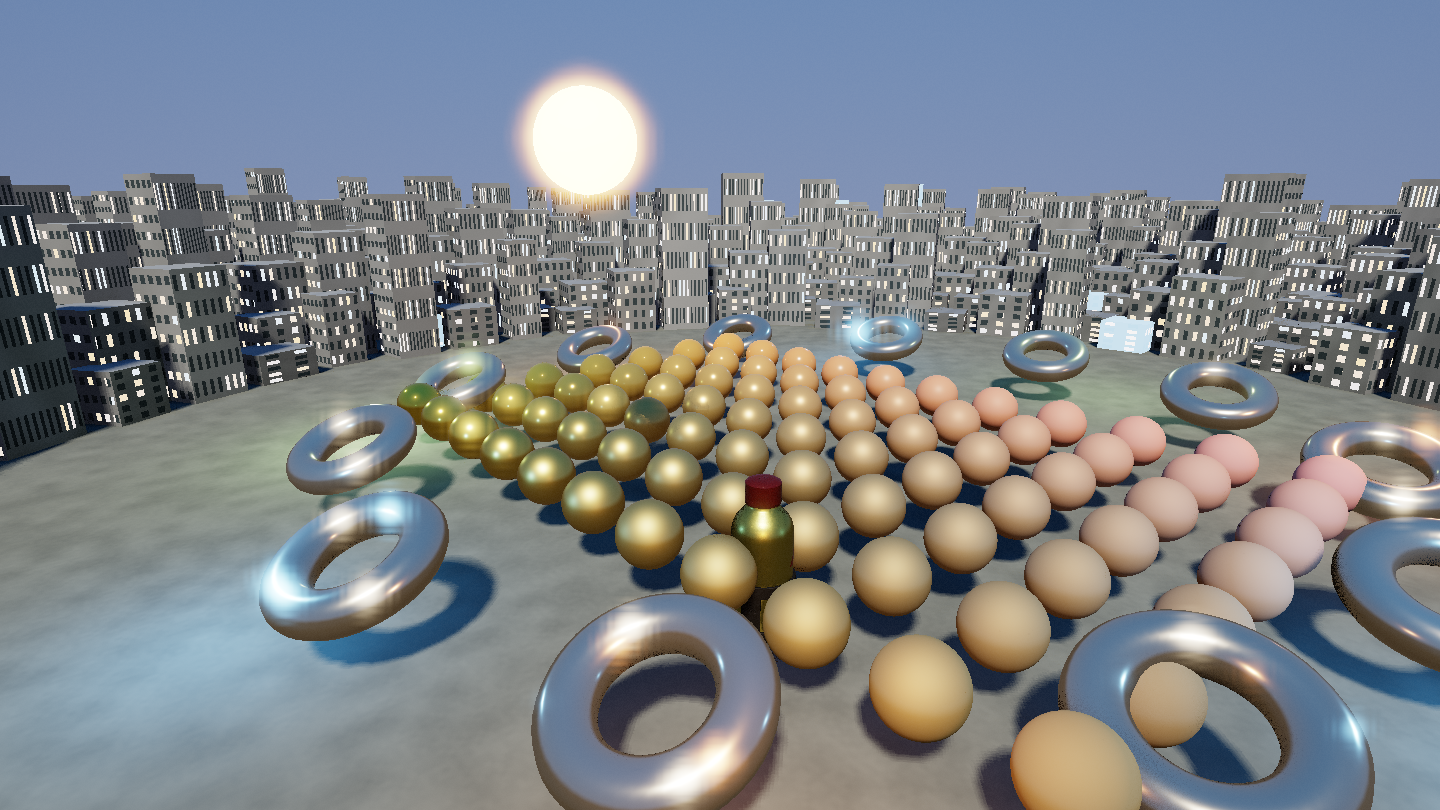
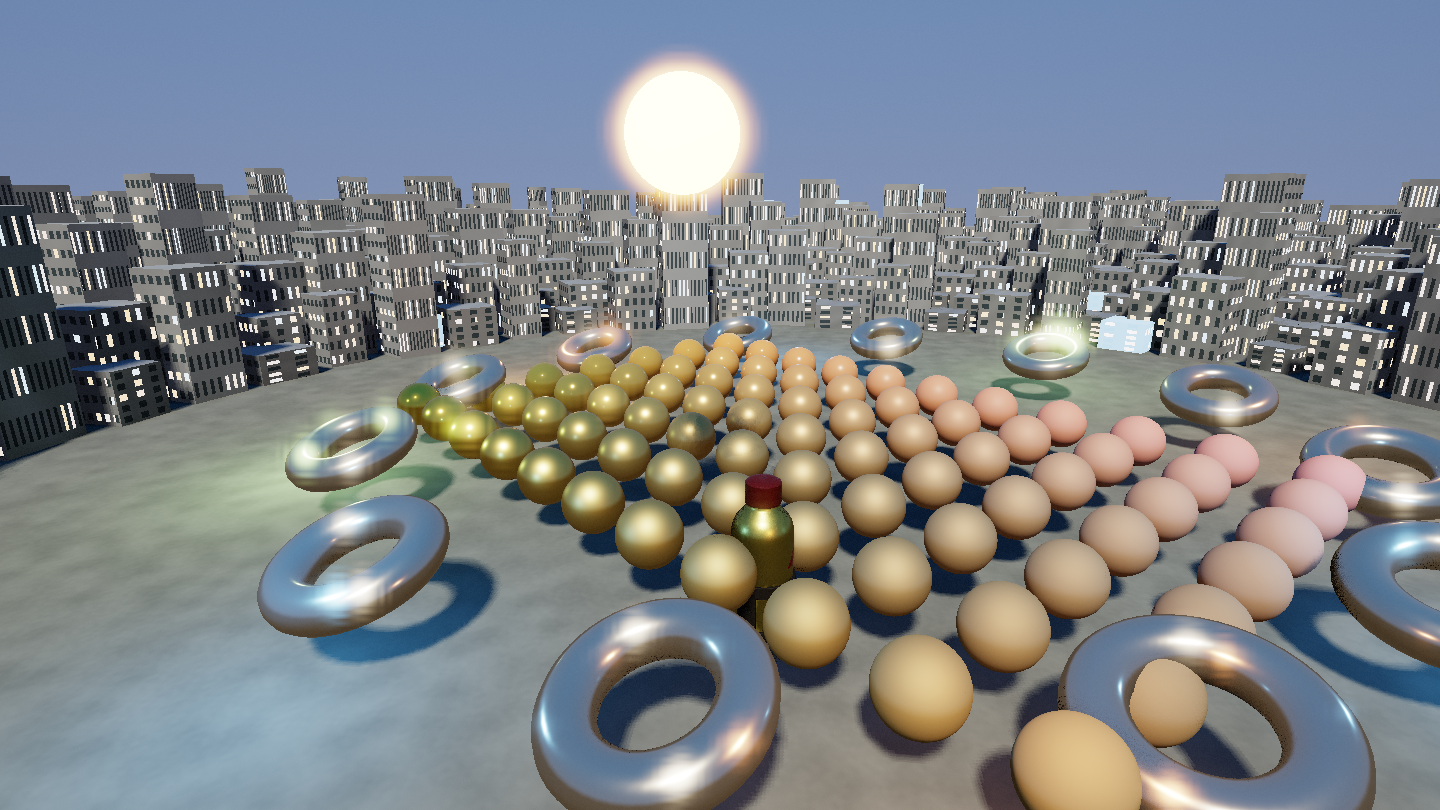
fix: encode shadow depths at full precision

diff --git a/src/renderer/mod.rs b/src/renderer/mod.rs
@@ -21,8 +21,8 @@ const AMBIENT_FORMAT: wgpu::TextureFormat = wgpu::TextureFormat::Rgba16Float;
 const AO_FORMAT: wgpu::TextureFormat = wgpu::TextureFormat::R8Unorm;
 const DEPTH_FORMAT: wgpu::TextureFormat = wgpu::TextureFormat::Depth32Float;
 const SHADOW_FORMAT: wgpu::TextureFormat = wgpu::TextureFormat::Depth32Float;
-// PCSS needs raw depths, and GLSL cannot textureLoad depth textures; keep an R32Float copy.
-const SHADOW_COLOR_FORMAT: wgpu::TextureFormat = wgpu::TextureFormat::R32Float;
+// PCSS needs raw depths, and GLSL cannot textureLoad depth textures; keep a full-precision R32Uint copy.
+const SHADOW_COLOR_FORMAT: wgpu::TextureFormat = wgpu::TextureFormat::R32Uint;
 const SHADOW_SIZE: u32 = 2048;
 const MAX_INSTANCES: usize = 4096;
 const GPU_TIMER_SLOTS: usize = 4;
@@ -1484,7 +1484,7 @@ fn create_frame_bind_group_layout(device: &wgpu::Device) -> wgpu::BindGroupLayou
                 binding: 1,
                 visibility: wgpu::ShaderStages::FRAGMENT,
                 ty: wgpu::BindingType::Texture {
-                    sample_type: wgpu::TextureSampleType::Float { filterable: false },
+                    sample_type: wgpu::TextureSampleType::Uint,
                     view_dimension: wgpu::TextureViewDimension::D2,
                     multisampled: false,
                 },
